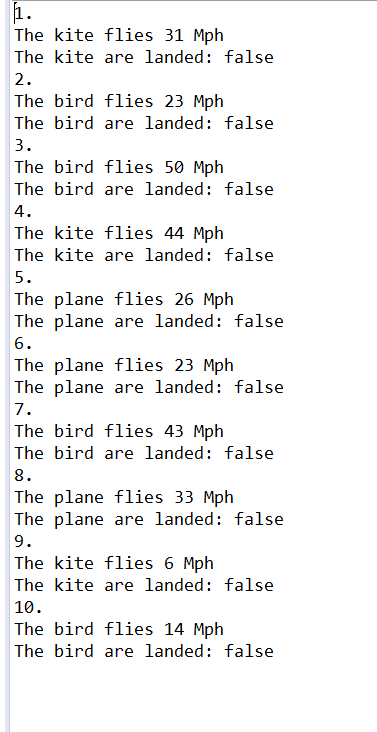
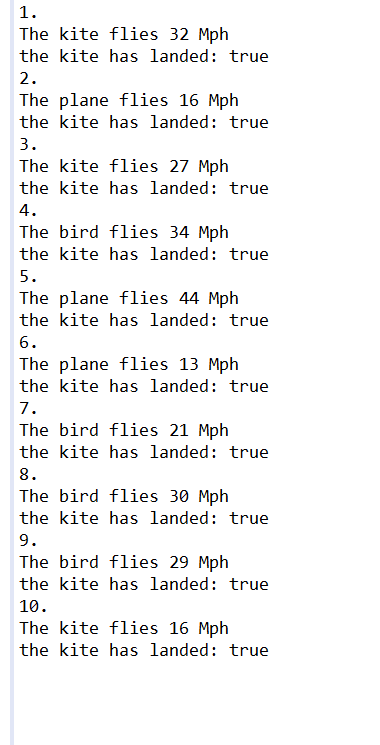
exercise IC

Changed region(s): [[0.0, 0.0, 0.7586, 1.0], [0.6127, 0.6913, 0.7586, 0.7213]]

diff --git a/21-10-18/IFly/Program.java b/21-10-18/IFly/Program.java
@@ -26,7 +26,8 @@ public class Program {
 			System.out.println(i + 1 + ". ");             /* >>---------- create index number -----------*/
 			iflyArray[i] = createIFly();                  /* >>----- create random object by method -----*/
 			iflyArray[i].fly(ran.nextInt(51 - 1) + 1);    /* >>--- create random speed for each object---*/
-			System.out.println(iflyArray[i].land());      /* >>- call to the land method for each object-*/
+			System.out.println("the kite has landed: "    /* >>- call the land method for each object-*/
+			                   +iflyArray[i].land());      
 		}
 
 	}

diff --git a/21-10-18/IFly/Bird.java b/21-10-18/IFly/Bird.java
@@ -23,10 +23,9 @@ public class Bird implements IFly{
 	}
 	@Override
 	public boolean land() {
-		System.out.print("The bird are landed: ");
-		return false ;
+		return true ;
 		
-	 
+	}
+		 
 	}
 	
-}

diff --git a/21-10-18/IFly/Kite.java b/21-10-18/IFly/Kite.java
@@ -22,8 +22,7 @@ public class Kite implements IFly{
 	}
 	@Override
 	public boolean land() {
-		System.out.print("The kite are landed: ");
-		return false;
+		return true;
 	}
 
 }

diff --git a/21-10-18/IFly/Plane.java b/21-10-18/IFly/Plane.java
@@ -31,11 +31,7 @@ public void fly(int speed) {
 }
 @Override
 public boolean land() {
-	System.out.print("The plane are landed: ");
-	return false;
+	return true;
 }
-
-
-
 
 }
